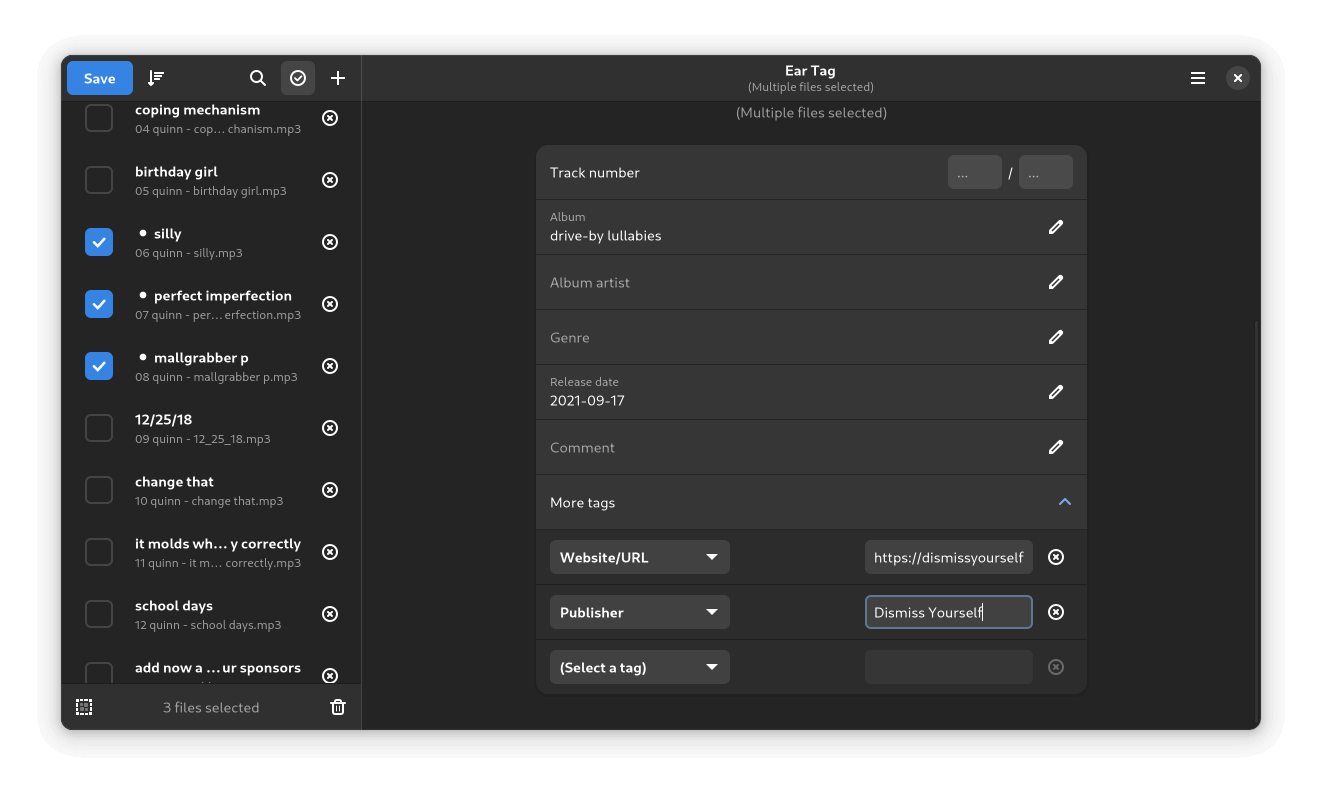
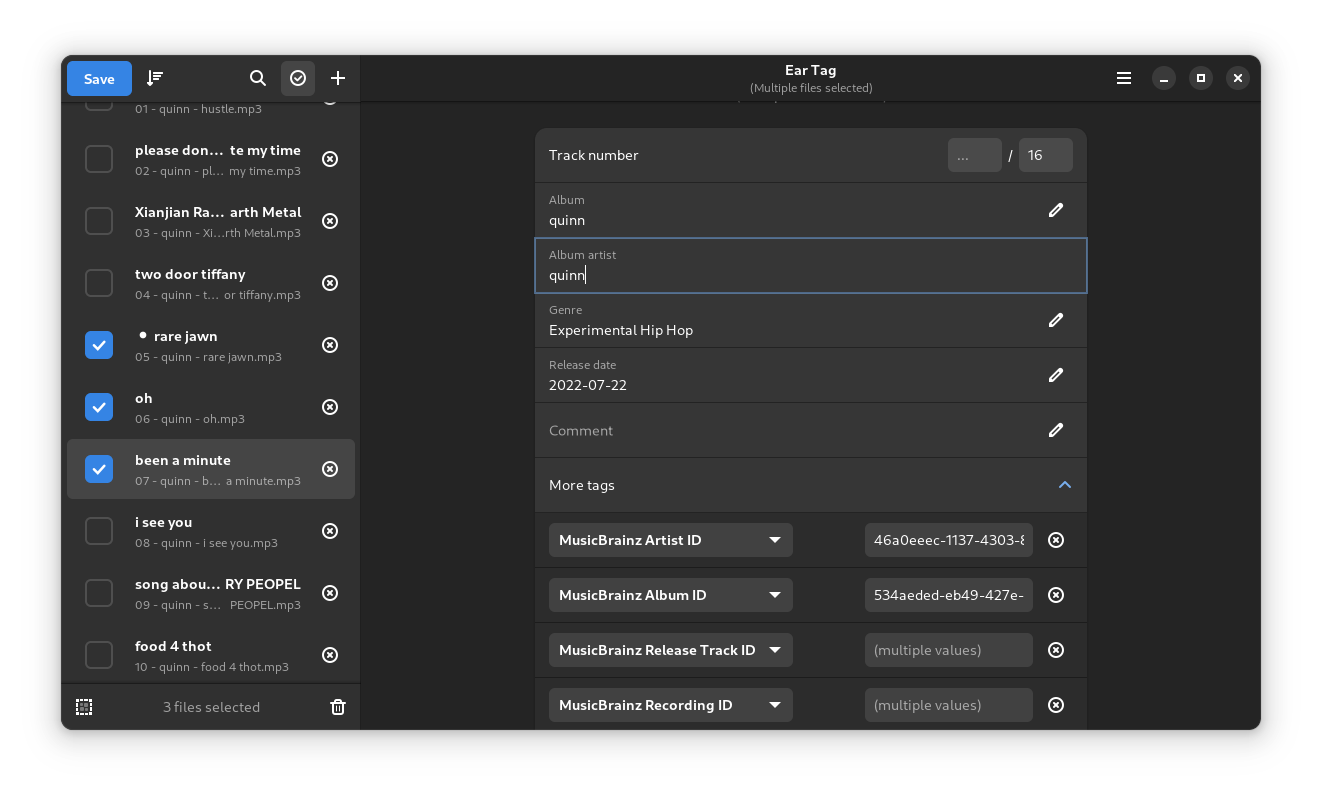
meta: update screenshots
Also change the info so that the screenshots are pulled from the appropriate tag.

diff --git a/README.md b/README.md
@@ -2,7 +2,7 @@
 
 Small and simple audio file tag editor
 
-![Screenshot](screenshot.png)
+![Screenshot](data/screenshot-scaled.png)
 
 ## About
 
